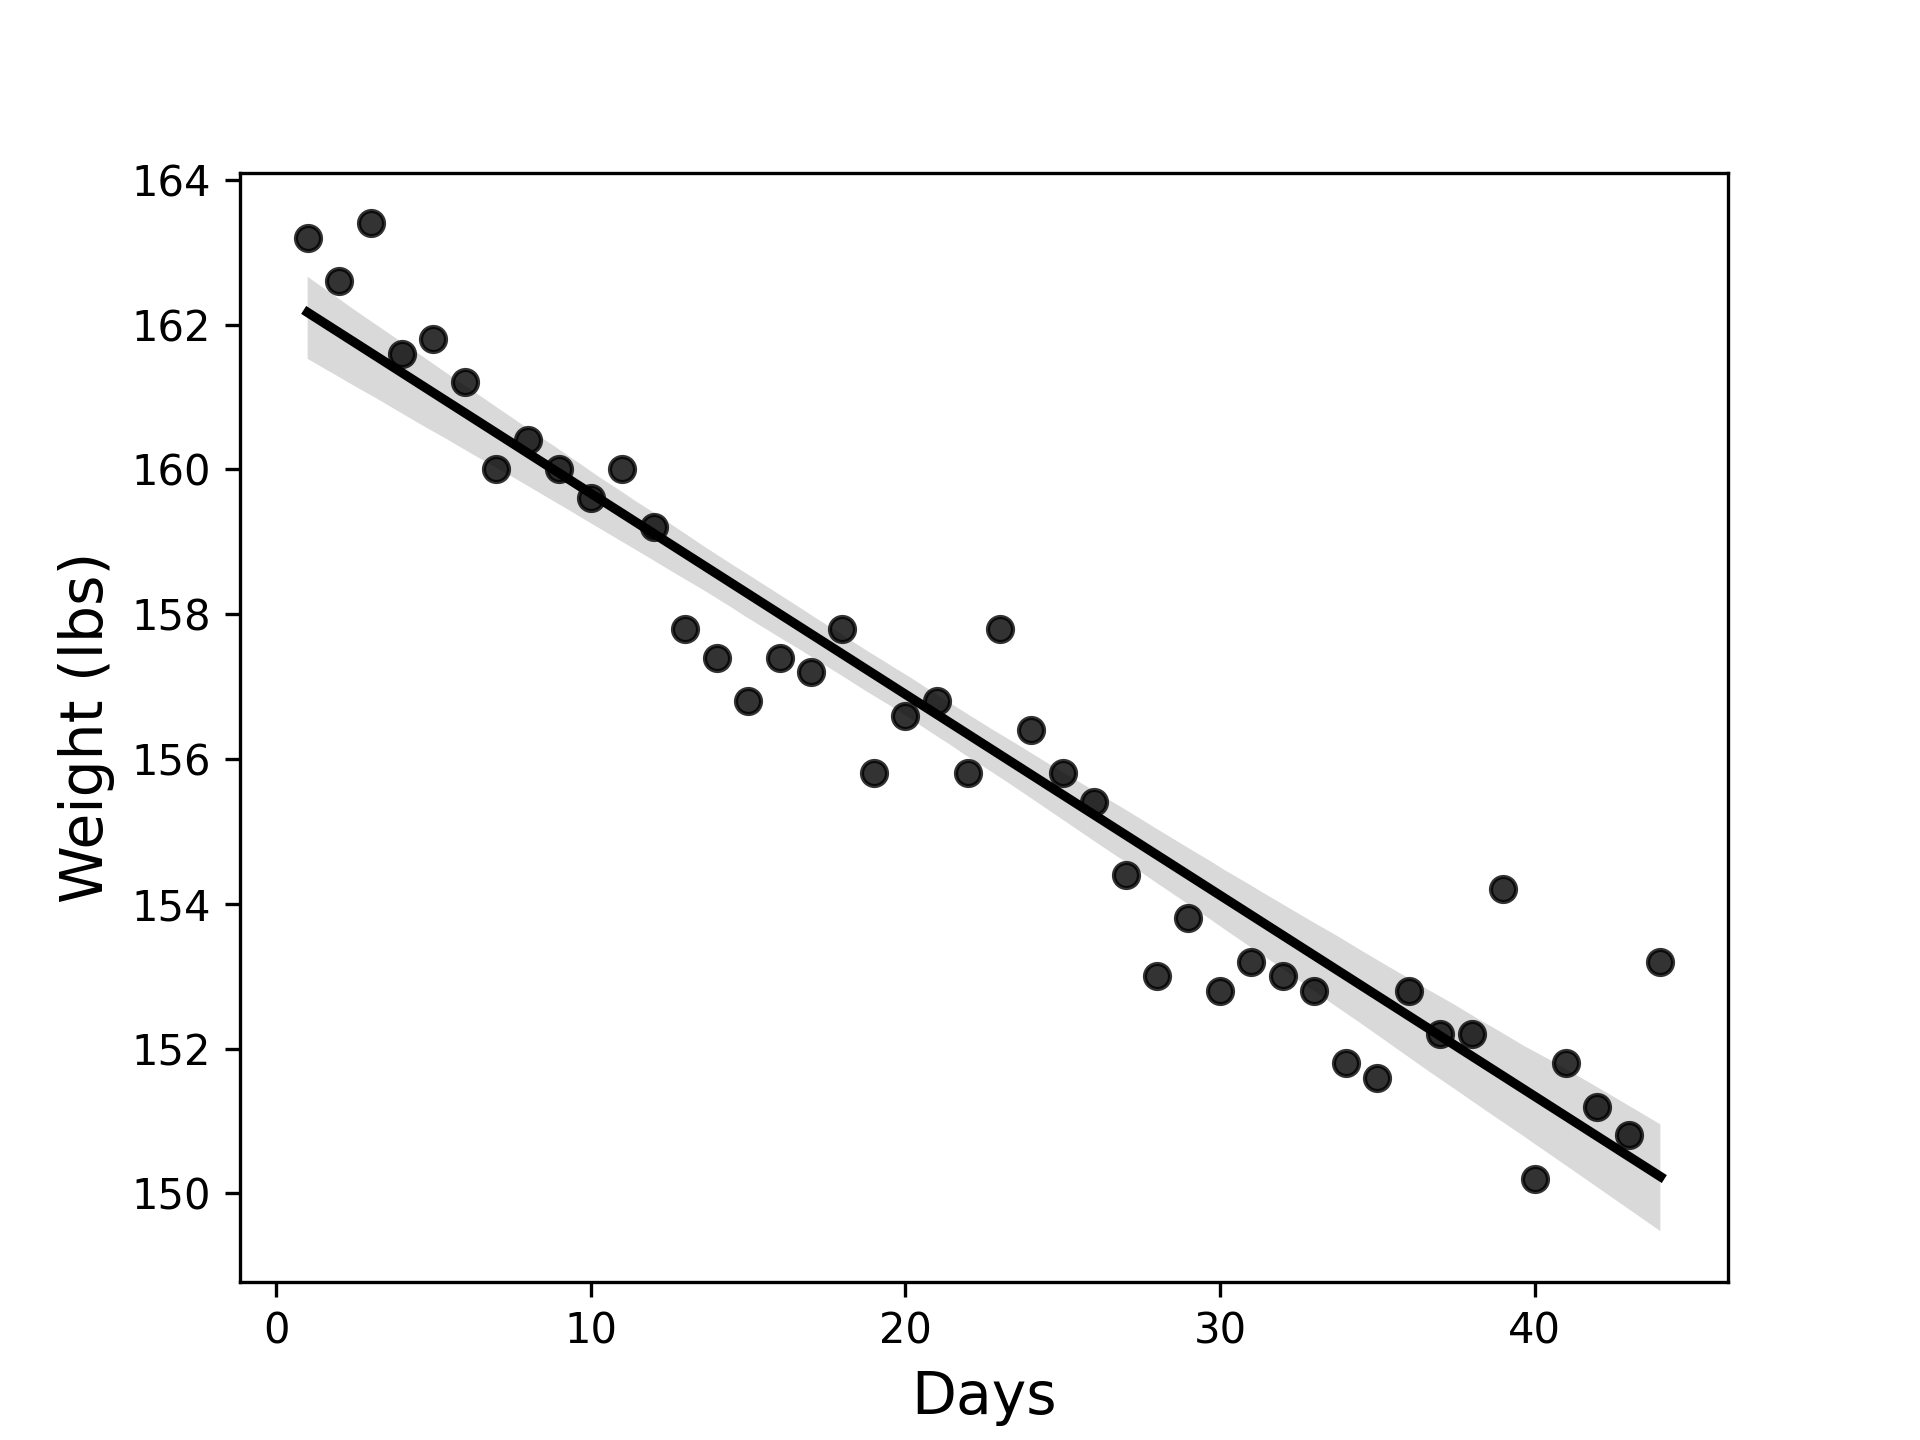
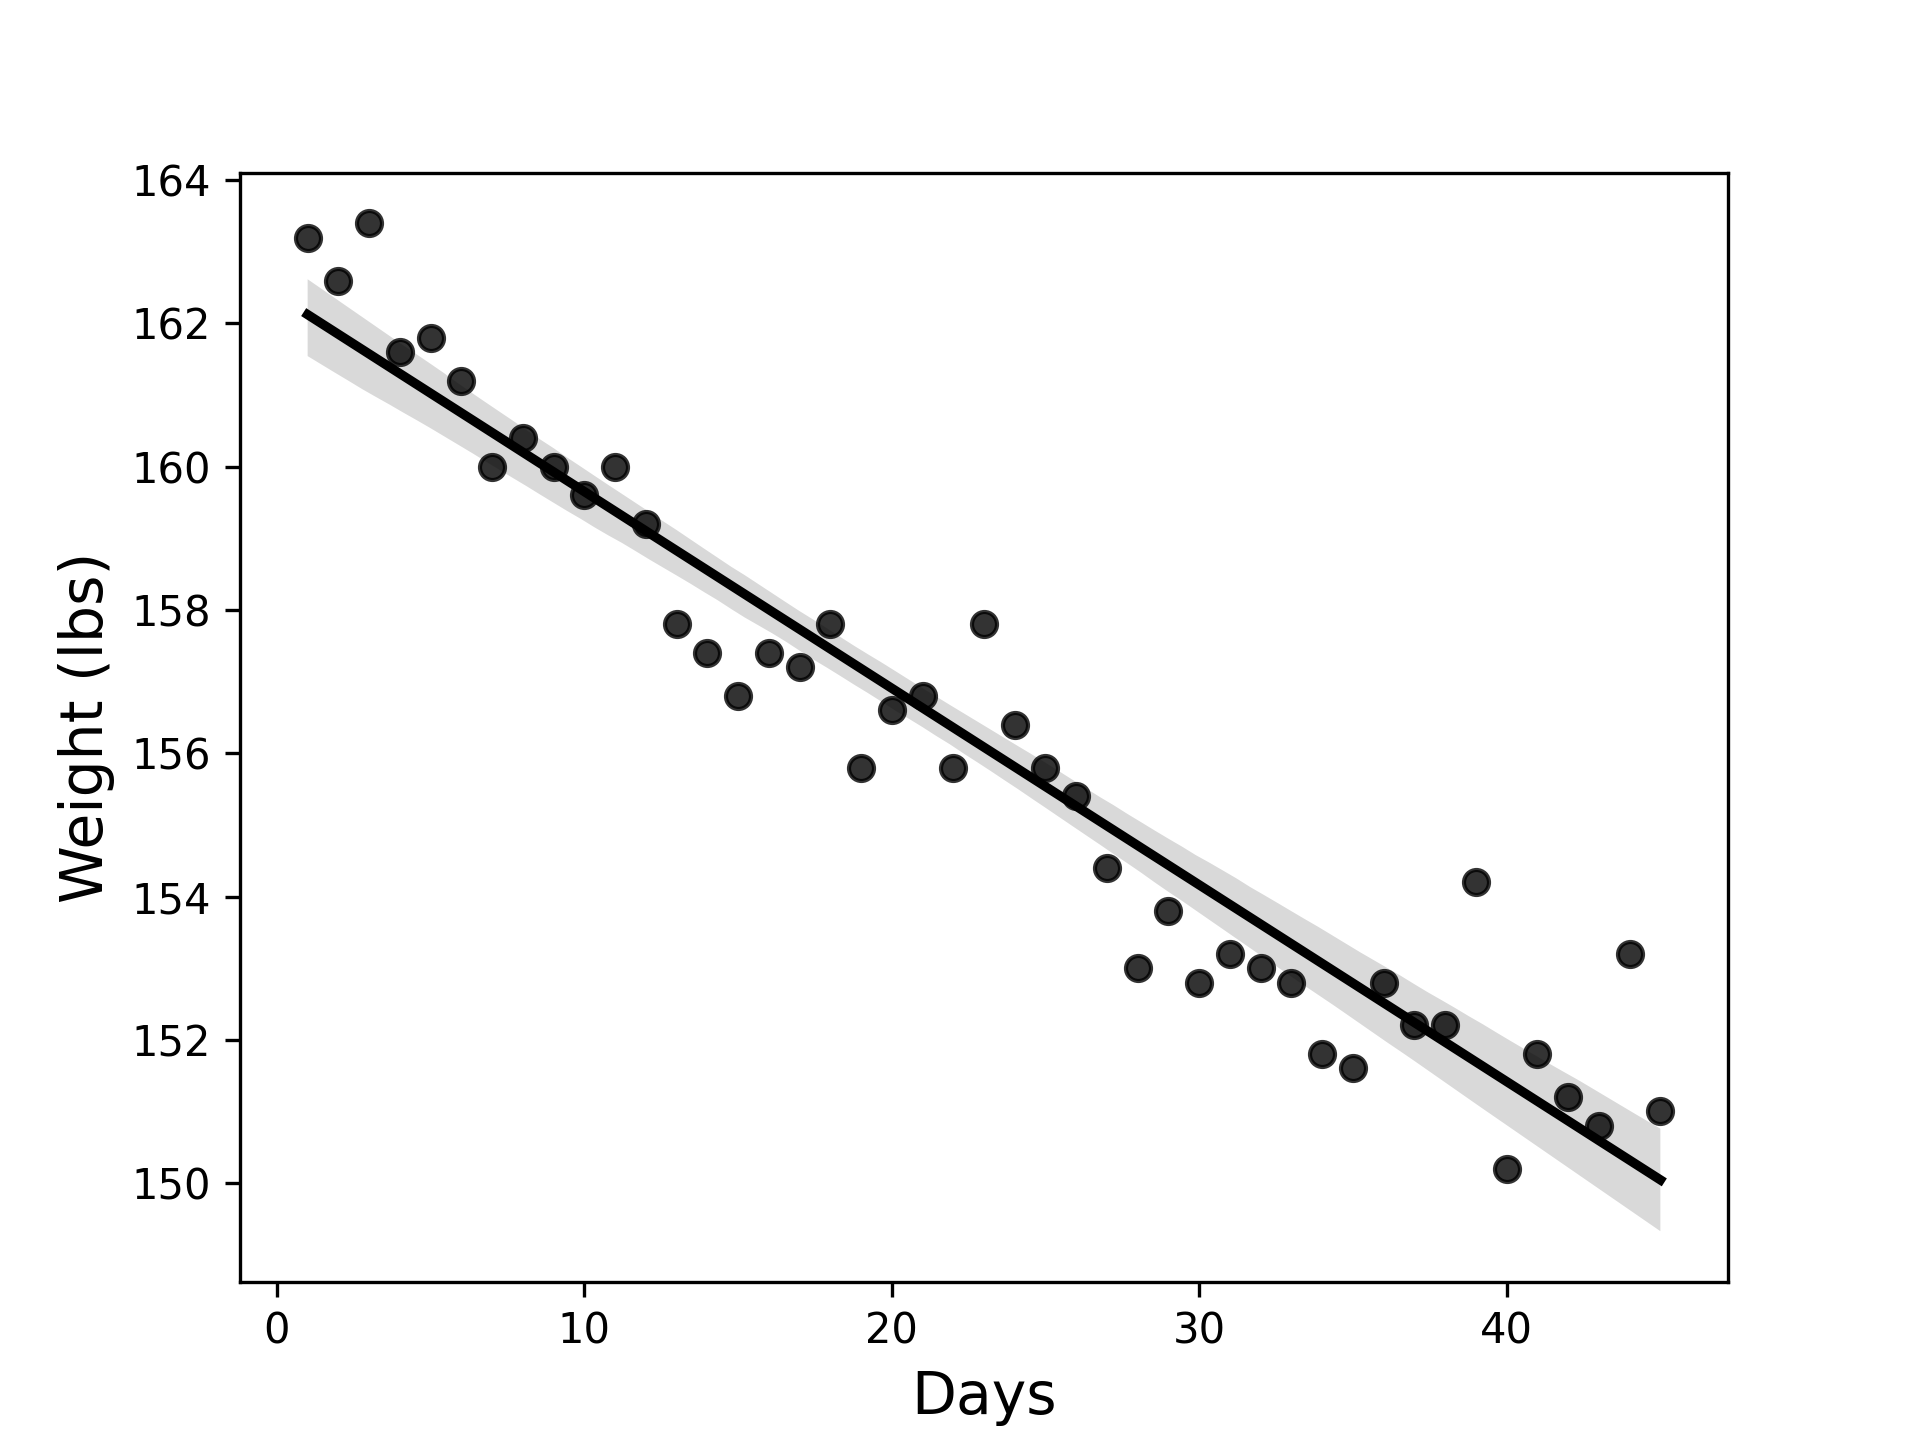
Updated weight.py and weight.png

diff --git a/Weight.py b/Weight.py
@@ -7,10 +7,11 @@ import seaborn as sns
 # Creates an array of elapsed days and assigns it to days_elapsed
 days_elapsed = np.array([1, 2, 3 ,4, 5, 6, 7, 8, 9, 10,11,12,13, 14,15,16,17,18,
                          19, 20,21,22,23,24,25,26,27,28,29,30,31,32,33,34,35,36,37,38,39,
-                         40,41,42,43,44]).reshape(-1,1)
+                         40,41,42,43,44,45]).reshape(-1,1)
 weight = np.array([163.2, 162.6, 163.4, 161.6, 161.8, 161.2, 160.0, 160.4, 160.0, 159.6,160.0,159.2,157.8, 157.4,156.8,157.4,
                    157.2, 157.8,155.8, 156.6,156.8,155.8,157.8,156.4,155.8,155.4,154.4,153.0,153.8,152.8,153.2,
-                   153.0,152.8,151.8,151.6,152.8,152.2,152.2,154.2,150.2, 151.8,151.2,150.8,153.2])
+                   153.0,152.8,151.8,151.6,152.8,152.2,152.2,154.2,150.2, 151.8,151.2,150.8,153.2,
+                   151.0])
 
 # Instantiates a LinearRegression model and fits it to the above arrays
 model = sklearn.linear_model.LinearRegression().fit(days_elapsed,weight)
